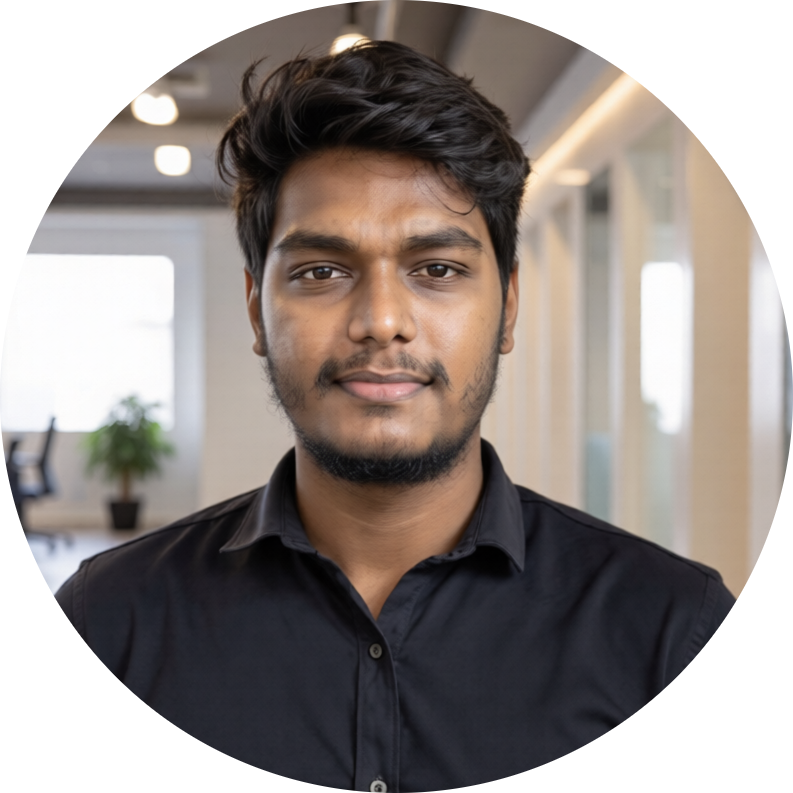
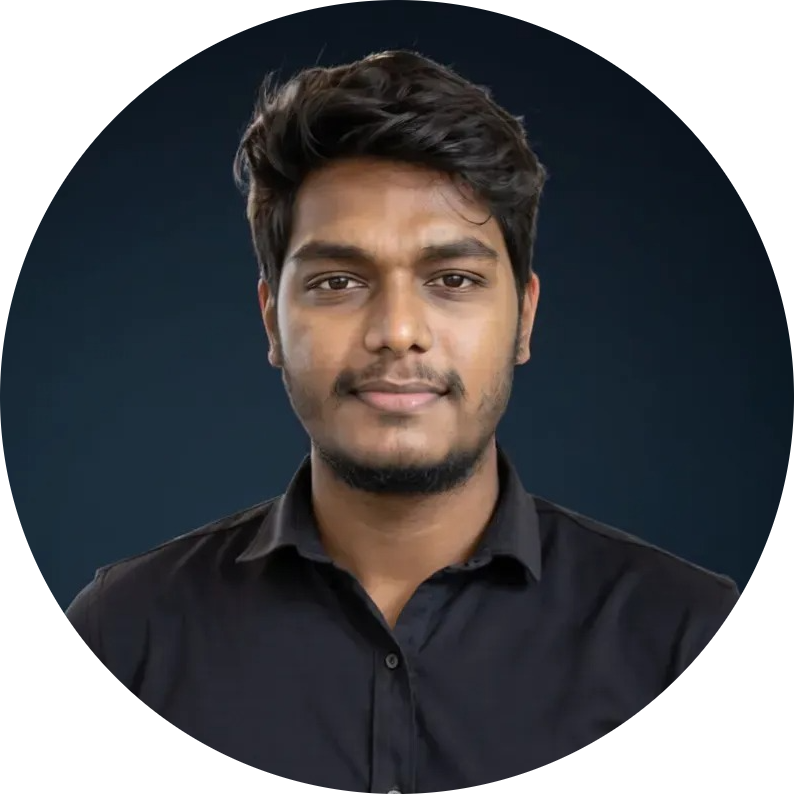
style: refine profile scale and orbital aura visibility

diff --git a/src/pages/Home.tsx b/src/pages/Home.tsx
@@ -536,7 +536,10 @@ const Home = () => {
         
         /* Preserved Solar System styles */
         .orbit-ring {
-          position:absolute; border-radius:50%;
+          position:absolute; 
+          top: 50%; left: 50%;
+          transform: translate(-50%, -50%);
+          border-radius:50%;
           border:1px solid rgba(0,150,255,0.09); pointer-events:none;
           animation:ring-breathe 6s ease-in-out infinite;
           width:calc(var(--rp)*1%); height:calc(var(--rp)*1%);
@@ -548,22 +551,30 @@ const Home = () => {
 
         .aura {
           position:absolute; width:36%; height:36%; border-radius:50%;
+          top: 50%; left: 50%;
+          transform: translate(-50%, -50%);
           background:radial-gradient(circle,rgba(0,145,255,0.2) 0%,rgba(0,65,200,0.06) 52%,transparent 72%);
           animation:aura-pulse 3s ease-in-out infinite; z-index:2;
         }
         @keyframes aura-pulse {
-          0%,100% { transform:scale(1);   opacity:0.8; }
-          50%      { transform:scale(1.1); opacity:1;   }
+          0%,100% { transform: translate(-50%, -50%) scale(1);   opacity:0.8; }
+          50%      { transform: translate(-50%, -50%) scale(1.1); opacity:1;   }
         }
 
         .center {
-          position:relative; z-index:10;
+          position:absolute;
+          top: 50%; left: 50%;
+          /* Translate vertically by half the photo height to make it the true center */
+          transform: translate(-50%, calc(-1 * clamp(50px, 11vmin, 80px)));
+          z-index:10;
           display:flex; flex-direction:column; align-items:center;
           gap:clamp(10px,2.5vmin,24px);
+          pointer-events: none;
         }
+        .center > * { pointer-events: auto; }
 
         .photo-circle {
-          width:clamp(120px,26vmin,195px); height:clamp(120px,26vmin,195px);
+          width:clamp(100px, 22vmin, 160px); height:clamp(100px, 22vmin, 160px);
           border-radius:50%; overflow:hidden;
           border:clamp(3px,0.6vmin,5px) solid rgba(0,195,255,0.9);
           box-shadow:
@@ -573,6 +584,7 @@ const Home = () => {
             inset 0 0 clamp(14px,3vmin,28px) rgba(0,0,0,0.2);
           animation:photo-glow 3.5s ease-in-out infinite;
           background:linear-gradient(145deg,#0a1929,#1e3a5f);
+          flex-shrink: 0;
         }
         @keyframes photo-glow {
           0%,100% { border-color:rgba(0,195,255,0.9); transform:scale(1); }
@@ -586,18 +598,29 @@ const Home = () => {
           }
         }
 
-        .nametag { text-align:center; padding:0 clamp(8px,2vmin,20px); }
+        .nametag { text-align:center; padding:0 clamp(12px,3vmin,32px); margin-top: 4px; }
         .nametag h1 {
-          font-family:'Orbitron',monospace;
-          font-size:clamp(8px,2.2vmin,17px); font-weight:900; color:#fff;
-          letter-spacing:clamp(1px,0.6vmin,4px);
-          text-shadow:0 0 20px rgba(0,185,255,0.95),0 0 50px rgba(0,115,255,0.5);
-          white-space:nowrap;
+          font-family: 'Plus Jakarta Sans', sans-serif;
+          font-size: clamp(22px, 4.2vmin, 38px); 
+          font-weight: 800; 
+          color: #fff;
+          letter-spacing: -0.02em;
+          line-height: 1.1;
+          margin-bottom: 8px;
+          background: linear-gradient(to right, #fff 20%, #47ccff 50%, #bb86fc 80%);
+          -webkit-background-clip: text;
+          -webkit-text-fill-color: transparent;
+          filter: drop-shadow(0 0 12px rgba(71, 204, 255, 0.3));
+          white-space: nowrap;
         }
         .nametag p {
-          font-size:clamp(7px,1.5vmin,11px); color:rgba(100,205,255,0.6);
-          letter-spacing:clamp(0.5px,0.4vmin,2.5px);
-          margin-top:clamp(3px,0.6vmin,6px); font-weight:300;
+          font-family: 'Plus Jakarta Sans', sans-serif;
+          font-size: clamp(10px, 1.8vmin, 14px); 
+          color: rgba(255, 255, 255, 0.5);
+          letter-spacing: 0.15em;
+          text-transform: uppercase;
+          font-weight: 600;
+          margin-top: 4px;
         }
 
         .icon-pill-inner {

diff --git a/src/pages/Accomplishments.tsx b/src/pages/Accomplishments.tsx
@@ -54,22 +54,6 @@ function SectionTitle({ children }: { children: React.ReactNode }) {
   );
 }
 
-// ─── Pill chip ────────────────────────────────────────────────────────────────
-
-function Chip({
-  label,
-  color = "text-primary",
-}: {
-  label: string;
-  color?: string;
-}) {
-  return (
-    <span
-      className={`px-3 py-1 bg-surface-container-highest rounded-full text-xs font-label ${color}`}>
-      {label}
-    </span>
-  );
-}
 
 
 // ─── Timeline milestone ───────────────────────────────────────────────────────
@@ -277,14 +261,29 @@ export const Accomplishments = () => (
             <h3 className="font-headline text-2xl font-bold text-on-surface mb-2">
               The End of Feminist (Sci-Fi)
             </h3>
-            <p className="text-on-surface-variant text-sm leading-relaxed mb-4">
+            <p className="text-on-surface-variant text-sm leading-relaxed mb-6">
               Author of the techno-thriller series <strong>"THE END OF FEMINIST"</strong>. A morally complex exploration of biological engineering, identity, and the unintended consequences of technology on humanity's future.
             </p>
-            <div className="flex gap-2 flex-wrap mb-6">
-              <Chip label="Tech Architect" color="text-primary" />
-              <Chip label="Sci-Fi Fantasy" color="text-primary" />
-              <Chip label="Azure Mastery" color="text-primary" />
+
+            <div className="grid grid-cols-1 sm:grid-cols-2 gap-8 mb-8 border-y border-outline-variant/10 py-6">
+              <div>
+                <h4 className="text-xs uppercase tracking-[0.2em] font-black text-primary mb-3">Volume 1: Genesis</h4>
+                <ul className="space-y-2 text-[11px] text-on-surface-variant font-medium">
+                  <li>• Male evolution & invention of the Catalyst</li>
+                  <li>• International spread & global disruption</li>
+                  <li>• Misuse of biological patents</li>
+                </ul>
+              </div>
+              <div>
+                <h4 className="text-xs uppercase tracking-[0.2em] font-black text-tertiary mb-3">Volume 2: Consequences</h4>
+                <ul className="space-y-2 text-[11px] text-on-surface-variant font-medium">
+                  <li>• WWW III & The Treaty of BWBM</li>
+                  <li>• AI Integration & Human Mankind Preservation</li>
+                  <li>• The Global Peace Accords (UNIDO)</li>
+                </ul>
+              </div>
             </div>
+
             <div className="flex flex-col sm:flex-row gap-4">
               <motion.a
                 whileHover={{ scale: 1.05 }}
